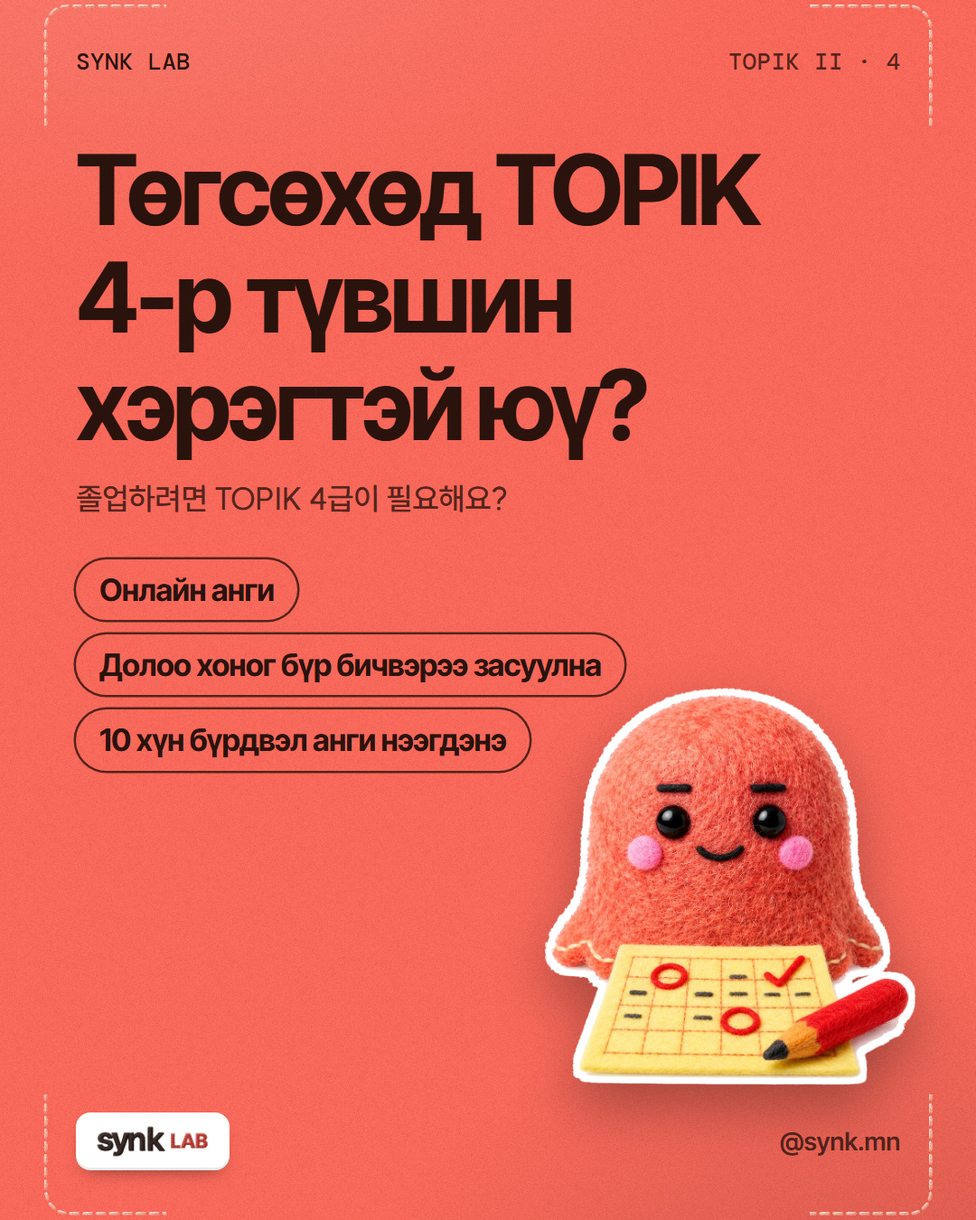
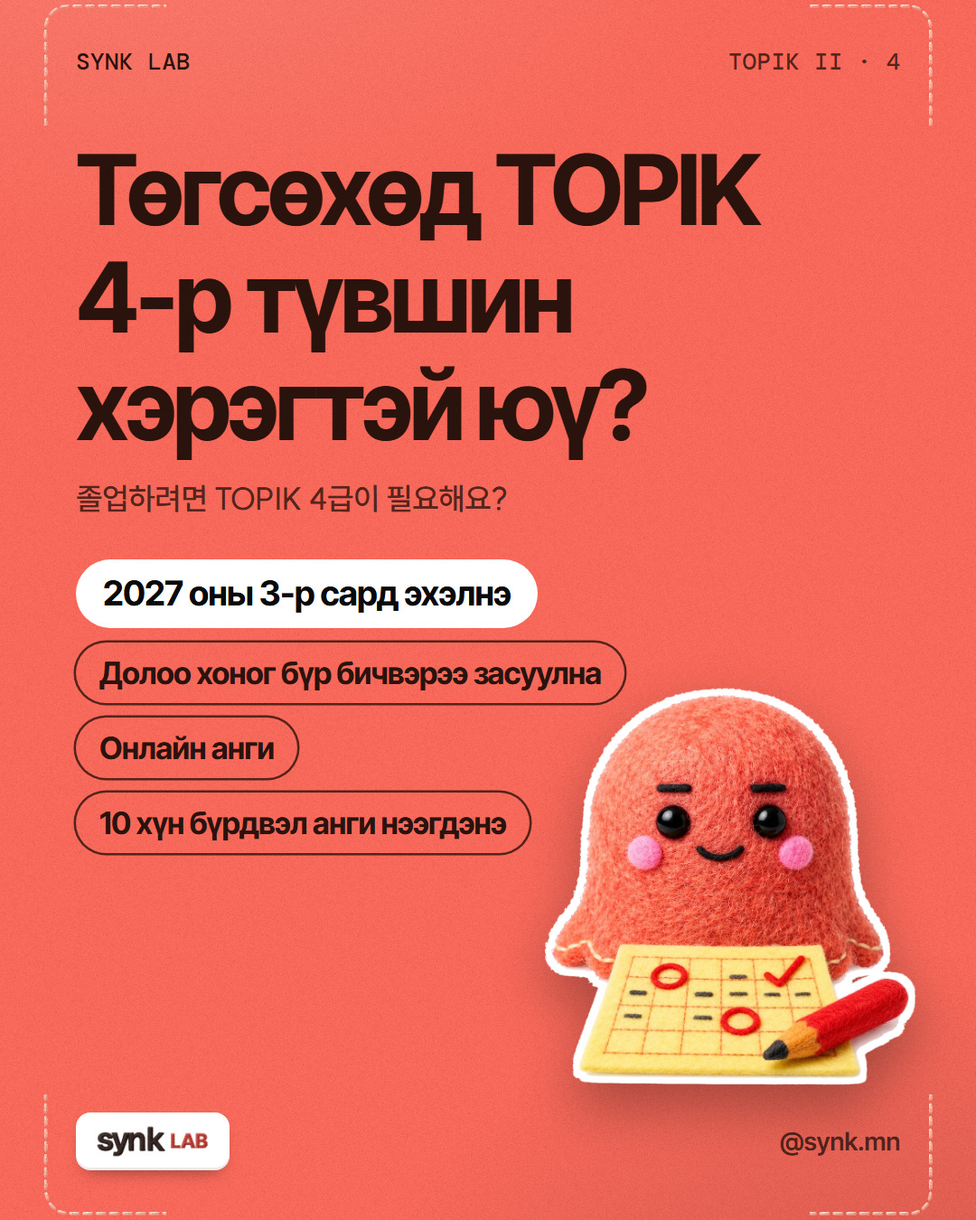
feat(LAB 첫 글 ①): 2027년 3월 시작을 표지·7장·캡션 맨 위에 — 새 판으로 21:00 다시 예약
- 유호님 「27년 3월시작인거 제대로 알려줘」: 표지 첫 칩(흰색) «2027 оны 3-р сард эхэлнэ», 7장 제목 «Эхлэх хугацаа, төлбөр, нөхцөл» · 첫 줄 «Эхний анги 2027 оны 3-р сард эхэлнэ», 캡션·페북 본문 줄표 맨 위
- 11차 몽골어 대조 아르곤 · Vertex 3.1 Pro 정상, 맞춤법 의심 0 — 1 · 7장 JPG 교체
- 「예약된 게시물 수정」은 사진 교체가 저장되지 않아 18:04 새 판을 다시 예약하고 옛 예약 두 줄 삭제(예약 목록 확인)
- 현장 노트: 예약 수정의 사진 함정 · ego 다른 공간이 떠 있을 때 그리기 멈춤

Changed region(s): [[0.0611, 0.4356, 0.6417, 0.7156]]

diff --git a/docs/마케팅/LAB_TOPIK4반소식_mn_20261023/원고.html b/docs/마케팅/LAB_TOPIK4반소식_mn_20261023/원고.html
@@ -16,6 +16,7 @@
   .k-paper .ko-s{color:var(--k-muted)}
   .chips{display:flex;flex-direction:column;align-items:flex-start;gap:16px;margin-top:44px}
   .chips .k-chip{font:700 34px/1.15 var(--k-latin)}
+  .chips .k-chip.date{background:#fff;color:var(--k-ink);box-shadow:none;font-size:38px;padding:16px 30px}
   /* 2 이런 분께 */
   .who{list-style:none;margin:60px 0 0;padding:0;display:grid;gap:72px}
   .who li{display:grid;grid-template-columns:64px 1fr;gap:22px;align-items:start}
@@ -78,8 +79,9 @@
     <p class="k-title l mn" style="max-width:820px">Төгсөхөд TOPIK <span class="nw">4-р түвшин</span> хэрэгтэй юү?</p>
     <p class="ko-s" style="margin-top:22px">졸업하려면 TOPIK 4급이 필요해요?</p>
     <div class="chips">
-      <span class="k-chip">Онлайн анги</span>
+      <span class="k-chip date">2027 оны 3-р сард эхэлнэ</span>
       <span class="k-chip">Долоо хоног бүр бичвэрээ засуулна</span>
+      <span class="k-chip">Онлайн анги</span>
       <span class="k-chip">10 хүн бүрдвэл анги нээгдэнэ</span>
     </div>
   </div>
@@ -182,14 +184,14 @@
 <section class="k-slide k-paper" data-fmt="feed34" data-name="7-값과조건">
   <div class="k-head"><b>SYNK LAB</b><span class="k-count">07 / 08</span></div>
   <div class="k-in">
-    <h2 class="k-title s mn">Төлбөр ба анги нээх нөхцөл</h2>
+    <h2 class="k-title s mn">Эхлэх хугацаа, төлбөр, нөхцөл</h2>
     <ul class="terms">
+      <li><b>Эхний анги 2027 оны 3-р сард эхэлнэ</b><span>10 хүн бүрдвэл анги нээгдэнэ. Эхлэх өдрийг цахим шуудангаар урьдчилан мэдэгдэнэ. Бүртгүүлэхдээ Бямба гарагт хичээллэх боломжтой цагаа сонгоно.</span></li>
       <li><b>8 долоо хоног 300,000 вон</b><span>НӨАТ багтсан үнэ.</span></li>
-      <li><b>10 хүн бүрдвэл анги нээгдэнэ</b><span>Эхний ангийг 2027 оны 3-р сард эхлүүлэхээр бэлдэж байна. Эхлэх өдрийг цахим шуудангаар урьдчилан мэдэгдэнэ. Бүртгүүлэхдээ Бямба гарагт хичээллэх боломжтой цагаа сонгоно.</span></li>
       <li><b>Одоо төлбөр авахгүй</b><span>Төлбөрийн талаар эхлэх өдөр тогтсоны дараа мэдэгдэнэ. Хичээл эхэлснээс хойш эхний 2 долоо хоногт та болихоор шийдвэл төлбөрийг бүтнээр нь буцааж өгнө.</span></li>
       <li><b>Юуг амлах вэ</b><span>Шалгалтад тэнцэх эсвэл тодорхой түвшин авахыг амлахгүй. Харин 8 долоо хоногт юу сурах, бичвэрээ хэрхэн засуулахыг тодорхой хэлж өгнө.</span></li>
     </ul>
-    <p class="ko-s" style="margin-top:26px;font-size:26px">8주 30만 원 · 10명이면 개강(첫 반 2027년 3월 목표) · 토요일 가능한 시간은 등록할 때 골라요 · 결제는 개강일이 정해진 뒤</p>
+    <p class="ko-s" style="margin-top:26px;font-size:26px">첫 반은 2027년 3월 시작 · 10명이면 개강 · 8주 30만 원 · 토요일 가능한 시간은 등록할 때 골라요 · 결제는 개강일이 정해진 뒤</p>
   </div>
   <div class="k-foot"><span class="k-handle" style="font-size:26px">@synk.mn</span><span>SYNK LAB</span></div>
 </section>

diff --git a/docs/_ops/트랙.md b/docs/_ops/트랙.md
@@ -19,7 +19,7 @@
 - **PATH 정착관리 — 정할 것 여덟(10-21, 유호님 차례 · 하나는 기한 11-10):** 외국인 정착·통합 관리 사업 계획과 로드맵을 [계획](../PATH_정착관리/README.md)·[두 쪽 판](../PATH_정착관리/한눈에.md)에 썼다(근거 조사 다섯 `docs/PATH_정착관리/조사/`, Fable 검수 세 번 — 32건 + 재검수 9건 + 10-22 뿌리 프로그램 23건 반영). 공고문 원문은 10-22 확인했고(정착 과제 마련·심사 20점·비예산), 전북도 [제안서 초안](../PATH_정착관리/제안/전북_광역형비자_정착과제_제안_초안.md)을 썼다(Fable 검수 17건 반영). 10-22 보내기 전 정할 것 아홉은 유호님이 추천대로 정했고(결정 표), 받는 곳 외국인국제정책과(참조 교육협력과)를 도청 직원검색으로 확인했다. PDF(`제안/전북_광역형비자_정착과제_협력제안서.pdf` — 원고 HTML을 `node docs/PATH_정착관리/제안/굽기.cjs`로 굽는다)와 Gmail(unmet23) 임시보관함 메일 초안(받는 사람 빈칸, PDF 붙임)까지 만들었다 — **10-22 유호님 「1~2주 준비하고 보내자」: 바로 보내지 않는다.** Claude 몫 준비는 10-22에 끝냈다 — 참고 자료·한 장 요약·협력 의향서(안)·참여 안내·동의서(한국어·몽골어, 몽골어는 원어민 검수 전) PDF, 전북 맞춤 보강(근거 [조사 7](../PATH_정착관리/조사/7_전북기존사업.md)), 묶음 전체 Fable 검수 반영(P1 2 · P2 7 · P3 16), Gmail 초안(본문·붙임 셋) 갱신. 10-22 유호님 「10월 29일까지 최대한 보충해서 보내자」 — 참고 자료에 그림·가상 사례·근거·비용을 보태고 Fable 검수(P1 1·P2 7·P3 12)를 모두 반영했다. 같은 날 「앱 화면 시안 몇 장도 만들어서 참고 자료에 넣자」로 4절에 학생 휴대폰 셋(할 일·상담·모임)과 매니저 화면 하나를 넣었다(참고 자료 6쪽, 아르곤 3건(반영 3) · Fable 7건(반영 7), P0·P1 0) — 유호님 「이대로 좋아」, 디자인은 [플랫폼 시그널](../디자인/플랫폼_시그널/README.md#path-settle-app-mockup-20261022). 10-23 「효과 증명·위기 대응·예상 질문 셋 다 보충해줘」 — 참고 자료 효과 증명(비교군·기준선)·밤·주말 위기 대응 절, 제안서·한 장 요약·동의서(한국어·몽골어)에 위기 대응·예외 줄, 유호님용 [예상 질문과 답](../PATH_정착관리/제안/전북_실무협의_예상질문.md)(유호님이 정해 두실 것 다섯 남음 — 비상 당번·매니저 체류자격·또래 리더 활동비·미선정 때 시범·비용 출처 한 줄). 사업자는 10-23 정함 — 개인사업자 없이 2027년 1월 전주 법인, 제안 문서에 「시범(3월) 전 법인 명의로 협약」(결정 10-23). Fable 검수 P1 3건 고친 뒤 재검수 P0·P1 0. 이름·연락처는 저장소 밖 보내는 판과 Gmail 초안에만 넣었다(초안 갱신, 보내지 않음). 10-23 유호님 「아직 보내지마 1주일동안 컨텐츠 준비 제대로 하고 올리자. 아직 많이 미흡한부분이 많아」 — Fable이 도 담당 주무관·공모 평가위원의 눈으로 모자란 곳 열하나를 찾았고(협력처 이름 없음·제안자 얼굴 없음·몽골어 중심 등), 유호님이 정한 넷(매니저는 쉬운 한국어+다수 국적어 우대 · 앱 알림·AI 1차 응답은 최대 200명 두 층 · 대표 소개는 synk.im 공개분만 · 원광대 국제교류처·진흥원에 보내기 전 면담, 결정 10-23)으로 묶음을 고쳤다 — 새 붙임 [신청서 문안](../PATH_정착관리/제안/전북_정착동행_신청서문안_원고.html)(심사 내용별로 맞닿는 곳·개조식 문안), 일정이 밀리면·비용 내역·2028년·방학, 메일 제목·첫 문단, 전화 대본 셋, 참고 자료 절 순서(6쪽). **남은 것([제안 초안 5절](../PATH_정착관리/제안/전북_광역형비자_정착과제_제안_초안.md)): 유호님 전화 셋(도 — 메일 주소·보낼 날·D-2/E-7·서식 칸·대학 연락 양해 / 원광대 국제교류처 / 진흥원) → 면담 1~2건 → Claude가 결과 반영·Fable 재검수 → 10-29 마지막 판 → 10-30 무렵 「보내」**. synk.im/path 「06 정착 동행」 구역은 10-23 공개했다(synk-policy `16b68ea` · 기준 그림 `bcd4196`, 화면 검수 아르곤 1건 반영 → 0 · Fable P0·P1 0, 원고 SYNK-website `d8bf651`, 바로 거는 주소 synk.im/path/#companion). 같은 날 질문창(ASK SYNK)에도 정착 동행 기록을 공개해 「정착 동행이 뭐예요?」·「첫 30일 할 일을 어떻게 챙기나요?」·「매니저가 같이 가 주나요?」·「정착 동행 시범에 참여할 수 있나요?」가 유학·취업 지원 답 대신 06 구역 단추(「정착 동행 보기」)가 달린 답으로 간다(synk-policy `7f77ec8` · 기준 그림 `a556e4a`, 원고 SYNK-website `b4bde93`, 화면 검수 아르곤 막힘(주간 0%) → Fable 2회 재현 P0·P1·P2 0 · P3 1 후속). 10-24 영어 synk.im/en/path에도 06 「Settle Together」 구역(한국어 06과 같은 사실 · 한국어 앱 시안임을 밝힘)과 영어 질문창 단추(「See Settle Together」)를 공개했다(v11 판 위 — synk-policy `431d46d` · 기준 그림 `c2fc457`, 원고 SYNK-website `81ef9f0`, 화면 검수 아르곤 막힘 → Fable 2회 재현 P0·P1 0). 도 공모 마감 11-10. 같은 날 유호님 요청으로 문제의 근본 원인을 건강하게 푸는 「뿌리 프로그램」을 계획 4-11절에 더했다(근거 [조사 5](../PATH_정착관리/조사/5_근본원인_건강한해결.md) — 마약은 피로·빚·고립·신분 불안을 무리별로 나눠 한 팀 리그·모국어 또래 리더·첫 주 「돈 유혹」 교육·사업장 피로 점검·신분 걱정 없는 첫 상담으로 푼다). 같은 날 유호님이 외국인 일자리 조사를 보고 「PATH의 심장」(2030년 업종별 최소 112.5만 명 부족 → 인력 관리)과 최종 목표(LAB TOPIK 4급 → 모자라는 자리의 조건·인성·적응을 풀어 주는 회사, 자격증은 연결)를 말씀해 계획 0절·[2-5절](../PATH_정착관리/README.md)·4-13절 「일자리 사다리」(다섯 갈래 — 돌봄·지방 제조·유학→지역 정착·조선·농어업, 직접 할 것과 잇는 것)·7-2·8절과 두 쪽 판에 넣었다(근거 [조사 8](../PATH_정착관리/조사/8_부족직종과_자격조건.md) — 법무부 2030 전략 표·체류민원 매뉴얼 2026-10판·요양보호사 양성지침·Q-net 원문, Fable 검수 P0·P1 0 · P2 10 · P3 12 모두 반영, 결정 표 10-22). 남은 확인: 요양보호사 E-7-2 시범(지침상 2026년까지)의 2027년 이후, 몽골 EPS-TOPIK 2026 일정. 계획의 정할 것은 11절 — ① 「통제」 대신 「책임 관리」 ② 이름(가칭 PATH 정착관리) ③ 외국인 핵심 지원 0원·도움과 단속 사이의 벽 ④ 첫 시범 순서·시기(추천: 2027-03 몽골 유학생 무료 시범) ⑤ **전북도 제안 — 공모 마감 2026-11-10**(위 준비 뒤 보내는 날·보내기 승인) ⑥ 공공 위탁은 비영리 파트너와 ⑦ 값 가설 ⑧ 기존 PATH #19 정착 패키지를 A1로 흡수. 연락·계약·구현은 없다.
 - **PULSE 「매진 임박」 공포 코미디 × 홈쇼핑 — 콘티 v4(원본 릴스 그대로) 이미지 콘티 끝 · 옷은 코케트로 확정(10-23 유호님 「옷은 코케트(원본 꼴 리본) 안으로 가자. 보드도 봤어.」) · B안 시험 넷 끝(10-23 밤 유호님 「맘에 들어. b안으로 일단 테스트해보자.」 — 이미지 콘티는 만족 장부 S31) · 나머지 24컷 영상 22컷 받음(10-24 유호님 「칼 컷 일곱만 Omni로 옮기고 칼 없는 #23 · #25는 Veo로 가자. 나머지 23컷 구워 줘.」, Flow 446) · #8 · #20 길 고르기 기다림:** 원본 31컷 첫 프레임과 나란히 놓은 보드 `Documents/synk-vendor/homeshopping-horror-20261021/콘티/매진임박_이미지콘티_v4_1~4.jpg` · `_한눈.jpg`, 옷 두 안 `매진임박_옷비교_v4.jpg`(원본 꼴 리본 · 코케트가 기본 추천 / 지금 옷) — 만든 길 · 닮음 · Fable 검토는 [콘티 v4 10절](../마케팅/PULSE_포트폴리오_제작준비_20261012/video/homeshopping-horror-20261021/04_콘티_v4_원본그대로.md). 강도는 복면(10-23 유호님 「강도는 원본처럼 복면으로 하자.」), 제품 · 강도가 든 물건은 블렌더 렌더 합성. B안 시험 넷 결과(Flow 114 — 6,563 → 6,449): #2 칼 든 강도는 Veo 3.1 Quality가 정책 위반으로 두 번 막음(크레딧 0), #31 도시락 강도는 Veo 통과(도시락이 0.5초 만에 다시 그려져 마감 때 블렌더로 덮음), #7 · #10 피해자 Omni는 두 판 중 한 판씩 통과(다른 판은 정책으로 막혀 환불) — 비교 영상 `synk-vendor/…/영상/v4시험/v4시험_원본과나란히.mp4`. 10-24에 ①(칼 컷 일곱만 Omni)로 나머지 24컷을 구워 22컷을 받았다 — 원본 31컷과 같은 초에 나란히 `synk-vendor/…/영상/v4/v4_원본과나란히_전체.mp4`, 우리 쪽만 이은 무음 가편집 `…/v4_가편집_무음.mp4`(#9는 1.65배, #26은 끝 칸에 통2 얼굴을 걸어 다시). 유호님 「생각보다 괜찮은데 ?!」 뒤 광고 카드 넷도 원본 박대로 움직이게 했다(영상 모델 없이 블렌더 물건 · 손 · 글자 층, 크레딧 0, `…/영상/v4/카드/`). 리4 클로즈업 #8 · #20(어깨에 손)은 Omni가 네 번 다 정책으로 막아(크레딧 0) 유호님 차례: 그 두 컷의 길 고르기 · 가편집을 보고 고칠 곳. 견적 두 안(A안 Omni 27컷 약 408 / B안 약 1,258)은 [04 10절 끝](../마케팅/PULSE_포트폴리오_제작준비_20261012/video/homeshopping-horror-20261021/04_콘티_v4_원본그대로.md). 광고 카드는 블렌더 합성판 위 Remotion(크레딧 0). 그 전: 영상판 v2에 유호님 「개연성이 안보여 … 누가봐도 ai로 대충 만든 광고같아 … 구성을 아예 똑같이 하는게 그나마 나을것같아. 시간초나 장면전환하는타이밍이나 구도나 전부 말이야」 → 원본 72.7초 · 31컷을 프레임으로 재고 그대로 옮긴 콘티 v4(Fable 원본 대조 반영). 아래는 그 전 기록. **10-23 영상판:** 「가편집 v8 좋아. 이대로 Omni 1.1 Flash로 영상 만들자(약 20컷, 약 280 Flow).」(장부 S28)대로 정지컷 자리 21곳을 Omni 클립으로 바꾼 영상판 v2(`synk-vendor/…/영상판/매진임박_영상판_v2_16x9.mp4` · `_9x16.mp4`, Flow 245) — Fable 「보여 드려도 된다」(P2 둘 고침). 유호님 차례: ① 영상판 v2를 보고 고칠 곳 ② 강도 갸웃 클로즈업 C05v3는 얼굴이 덜 닮는 구간을 빼고 시작 그림에 가까운 구간을 썼다 — 곁눈질이 큰 구간이나 다시 생성(14 Flow)을 원하시면 그때 ③ 최종 음악(Suno). 아래는 그 전 기록. v2 가편집(강도 유호님 · 피해자 통2 · 리4 · 지유)에 「매진임박 맘에 드는데 ?」(장부 S27) 뒤 「더 재밌고 사람들 반응이 좋은걸로 하자 … 크롤링해서 데이터를 제대로 파악해서 적용시켜줘 … 앵글이나 이런것도 … 영상 제작은 바로 하지말고 일단 콘티 완벽하게 만들어놓고 진행하자」(10-22)에 반응 조사(한국 YouTube 300편 · 해외 251편 · 상위 16편 컷 실측 — [조사](../마케팅/PULSE_포트폴리오_제작준비_20261012/video/homeshopping-horror-20261021/02_반응조사_20261022.md))를 넣은 콘티 v3.1(39.2초 · 30컷, [콘티](../마케팅/PULSE_포트폴리오_제작준비_20261012/video/homeshopping-horror-20261021/03_콘티_v3.md))과 이미지 콘티 · 가편집 v8을 만들었다([브리프](../마케팅/PULSE_포트폴리오_제작준비_20261012/video/homeshopping-horror-20261021/00_브리프.md) 「지금 판」, 미디어 `Documents/synk-vendor/homeshopping-horror-20261021/` — `콘티/매진임박_이미지콘티_v3.jpg` · `가편집/매진임박_가편집_v8_*`). 쇼호스트 하린을 새로 세웠고 제품은 2안 꽉 밀폐용기 — **10-23 유호님 확정 「제품은 2안 꽉 밀폐용기로 가자.」** 영상 생성은 하지 않았다. 유호님 차례: ① 가편집 v8 · 이미지 콘티를 보고 고칠 곳 ② 영상 모델(약 20컷 — Omni 1.1 Flash 약 280 Flow, 입모양 맞출 컷 넷). 끝 판 셋(기본 · 「주문 완료」에서 끊는 짧은 판 · 「너네도 필요해?」)과 9:16 머리글 넷은 올릴 때 견준다. **10-22 유호님:** 이 작품은 모델별 참고 영상 기각에 들지 않는다(「그건 빼고 완성되면 올리자」) — 완성되면 PULSE 고객 앱 「완성 광고」 공간에 올린다(§8 「PULSE 모델은 사진만 · 완성 광고」 줄).
 - **1일 1편 작업실 예약 — 연결 완료, 편마다 검토 승인(10-23):** 비밀번호 9자 이상을 받는 판은 19:02 운영에 올랐고 회사 HA 사슬 26 합본은 19:45 재무장됐다. 그 화면에서 유호님이 직접 저장한 뒤 자동화 보관소 이메일을 같은 작업실 계정에 맞췄다(비밀번호는 그대로). 19:49 KST 실제 `/api/login`·`/api/me`·`/api/social/workspace`가 모두 200이며 본인 계정 일치·기존 작업 7건 전부 게시 완료·예약 대기 0건을 확인했다. 19:51 정기 작업도 등록·서버 대조 모두 종료 0으로 끝나 401 연결 문제는 해소됐다. 실제 새 편의 등록·발행은 그 편의 승인 뒤 확인한다. 정기 작업 「SYNK 예약큐」는 기존 30분 주기를 유지한다. 편마다 텔레그램 검토 링크에서 유호님이 승인해야 나가는 조건도 그대로다([작업실 예약 등록](../마케팅/온라인마케팅지도/engagement/company/WORKSPACE.md#daily-content-workspace-booking-20261021)). 게시 연결 넷은 같은 날 @synkkorean·@synkbrief(유튜브)·@synkbrief·@synk.mn(인스타)에 연결 확인을 마쳤다. 서버의 언어·AI 표시 등 판별 지원 범위는 §6 같은 이름 줄과 실제 게시 전 검사를 따른다. 비식별 읽기·예약 실행 검증 근거는 `output/business-workflow-pilot-review/`의 `auth-verification-2026-10-23T10-49-43-159Z.json`·`scheduled-run-proof.json`이다.
-- **TOPIK 4급 관심 등록 — 정할 것(10-21):** 공개한 synk.im/lab/topik4/에서 ① 시험 등록 종단 확인은 10-21 끝(회사 서버 수집·시험 분류까지) ② 모집 글(`experiences/lab-topik4/모집글.md`) 게시와 @synk.mn 프로필 링크 바꾸기 ③ 영업 명단 30곳 첫 메일·DM — 첫 연락일은 「보내기 전 확인 셋」(실제 계정 쓰기 피드백 · 휴대폰 실기기 · 회신 주소)이 끝나는 날(10-21 밤 유호님, [결정](결정.md)). ①② 10-21 유호님 휴대폰 확인 끝(막힌 곳 없음), ③ 회신 주소 hello@synk.im으로 채움(10-21 밤) → **1차 묶음은 10-30 무렵, 준비가 충분해진 뒤 보냄 — 10-22 낮 유호님 「1주일동안 우리 사업 전체를 강화하고 보내자」, 10-23 「충분히 준비되고나서 … 준비해놓은 컨텐츠가 많이 부족」 → 그 전에 맛보기 수업 영상과 @synk.mn 첫 글들을 채운다** — 그 1주 할 일은 [준비 목록 6절](../../experiences/lab-topik4/첫연락_준비목록.md#week-before)([결정](결정.md) 10-22·10-23). 예약 걸어 둔 것 없음(초안·붙일 것은 저장소 밖 `Documents/메일정리/2026-10-21/영업_첫30곳/`, 묶음 목록은 그 폴더 `1차_보낼묶음.md`). 검수용 Gmail 초안 7통(unmet23 「Drafts」, 보내지 않음·예약 없음)은 사실 확인·메일 다듬기 뒤 새 판으로 바꾼다 — 보내기는 유호님 검수 뒤 Gmail에서 직접. 그 밖의 [첫 연락 준비 목록](../../experiences/lab-topik4/첫연락_준비목록.md)은 문턱이 아니라 그날까지 되는 만큼 — 10-21 밤 Claude가 넷(TOPIK II 입구 확인 · 몽골어 안내문 · 통화용 소개 · 신청 운영 절차)을 갖췄고, 10-22에 WORLD TOPIK II 바로가기 주소를 더했다(메일 초안의 WORLD 링크 46곳도 새 주소로 바꿈 — 검수하실 때 `https://synk.im/world/?exam=topik2…`로 보입니다). @synk.mn 반 소식이 남았다(환불 기준점은 10-22 확정). 신청 수는 매주 월요일 회사 Workspace 「문의 접수」에서 세어 주세요([README 신청 운영](../../experiences/lab-topik4/README.md#신청-운영주-1회)). **@synk.mn 첫 글 두 편 v2(10-23 저녁, ab09e540c)** — 유호님 「오케이 이건 그럼 내일 제미나이 초기화되면 올리자」: 대조기는 10-23 21시 Vertex Gemini 3.1 Pro로 끝(전부 「정상」) — ① 반 소식 10-24 21:00 · ② 51·52번 빈칸 10-27 21:00, 14시 「오늘 편 게시」 작업이 건다([① 게시 묶음](../마케팅/LAB_TOPIK4반소식_mn_20261023/게시/README.md)). 그 전에 유호님 휴대폰 앱: 인스타 프로필 링크 둘(웹 · Business Suite로는 안 됨). 페북 SYNK 페이지 소개 링크는 10-23 Claude가 더함. **10-24 아르곤 대조: ① 다섯 묶음 중 하나 「어색」(14시 보류) → 두 곳을 고쳐 10차 아르곤 · Vertex 「정상」, 2 · 3장 다시 구워 16:02에 21:00 예약됨(인스타 · 페북) · ② 세 묶음 「정상」(10-27 21:00 슬롯). 남은 것: 21:00 뒤 ① 인스타 고정 · 게시 주소 기록**([① 검사.아르곤](../마케팅/LAB_TOPIK4반소식_mn_20261023/게시/준비.json)). **맛보기 수업 영상 10-24 신청 페이지 공개** — 03 칸 https://synk.im/lab/topik4/#class-video(synk-policy `380d612`, 화면 검수 아르곤 0 · Fable P0·P1 0), 메일 칸 주소는 첫 연락 세션에 넘김([준비 목록 ⑤](../../experiences/lab-topik4/첫연락_준비목록.md#week-before) · [콘티 14절](../마케팅/LAB_TOPIK4맛보기수업_20261023/콘티.md)).
+- **TOPIK 4급 관심 등록 — 정할 것(10-21):** 공개한 synk.im/lab/topik4/에서 ① 시험 등록 종단 확인은 10-21 끝(회사 서버 수집·시험 분류까지) ② 모집 글(`experiences/lab-topik4/모집글.md`) 게시와 @synk.mn 프로필 링크 바꾸기 ③ 영업 명단 30곳 첫 메일·DM — 첫 연락일은 「보내기 전 확인 셋」(실제 계정 쓰기 피드백 · 휴대폰 실기기 · 회신 주소)이 끝나는 날(10-21 밤 유호님, [결정](결정.md)). ①② 10-21 유호님 휴대폰 확인 끝(막힌 곳 없음), ③ 회신 주소 hello@synk.im으로 채움(10-21 밤) → **1차 묶음은 10-30 무렵, 준비가 충분해진 뒤 보냄 — 10-22 낮 유호님 「1주일동안 우리 사업 전체를 강화하고 보내자」, 10-23 「충분히 준비되고나서 … 준비해놓은 컨텐츠가 많이 부족」 → 그 전에 맛보기 수업 영상과 @synk.mn 첫 글들을 채운다** — 그 1주 할 일은 [준비 목록 6절](../../experiences/lab-topik4/첫연락_준비목록.md#week-before)([결정](결정.md) 10-22·10-23). 예약 걸어 둔 것 없음(초안·붙일 것은 저장소 밖 `Documents/메일정리/2026-10-21/영업_첫30곳/`, 묶음 목록은 그 폴더 `1차_보낼묶음.md`). 검수용 Gmail 초안 7통(unmet23 「Drafts」, 보내지 않음·예약 없음)은 사실 확인·메일 다듬기 뒤 새 판으로 바꾼다 — 보내기는 유호님 검수 뒤 Gmail에서 직접. 그 밖의 [첫 연락 준비 목록](../../experiences/lab-topik4/첫연락_준비목록.md)은 문턱이 아니라 그날까지 되는 만큼 — 10-21 밤 Claude가 넷(TOPIK II 입구 확인 · 몽골어 안내문 · 통화용 소개 · 신청 운영 절차)을 갖췄고, 10-22에 WORLD TOPIK II 바로가기 주소를 더했다(메일 초안의 WORLD 링크 46곳도 새 주소로 바꿈 — 검수하실 때 `https://synk.im/world/?exam=topik2…`로 보입니다). @synk.mn 반 소식이 남았다(환불 기준점은 10-22 확정). 신청 수는 매주 월요일 회사 Workspace 「문의 접수」에서 세어 주세요([README 신청 운영](../../experiences/lab-topik4/README.md#신청-운영주-1회)). **@synk.mn 첫 글 두 편 v2(10-23 저녁, ab09e540c)** — 유호님 「오케이 이건 그럼 내일 제미나이 초기화되면 올리자」: 대조기는 10-23 21시 Vertex Gemini 3.1 Pro로 끝(전부 「정상」) — ① 반 소식 10-24 21:00 · ② 51·52번 빈칸 10-27 21:00, 14시 「오늘 편 게시」 작업이 건다([① 게시 묶음](../마케팅/LAB_TOPIK4반소식_mn_20261023/게시/README.md)). 그 전에 유호님 휴대폰 앱: 인스타 프로필 링크 둘(웹 · Business Suite로는 안 됨). 페북 SYNK 페이지 소개 링크는 10-23 Claude가 더함. **10-24 아르곤 대조: ① 다섯 묶음 중 하나 「어색」(14시 보류) → 두 곳을 고쳐 10차 아르곤 · Vertex 「정상」 · ② 세 묶음 「정상」(10-27 21:00 슬롯). ①은 유호님 「27년 3월시작인거 제대로 알려줘」로 2027년 3월 시작을 표지 · 7장 · 캡션 맨 위에 넣은 새 판(11차 「정상」)을 18:04에 21:00로 다시 예약(인스타 · 페북, 옛 예약은 삭제). 남은 것: 21:00 뒤 ① 인스타 고정 · 게시 주소 기록**([① 검사.아르곤](../마케팅/LAB_TOPIK4반소식_mn_20261023/게시/준비.json)). **맛보기 수업 영상 10-24 신청 페이지 공개** — 03 칸 https://synk.im/lab/topik4/#class-video(synk-policy `380d612`, 화면 검수 아르곤 0 · Fable P0·P1 0), 메일 칸 주소는 첫 연락 세션에 넘김([준비 목록 ⑤](../../experiences/lab-topik4/첫연락_준비목록.md#week-before) · [콘티 14절](../마케팅/LAB_TOPIK4맛보기수업_20261023/콘티.md)).
 
 - **WORLD TOPIK 맞춤 검수 — 최종안 고르기(10-20, 유호님 차례):** 1차 Claude·2차 페이블·3차 아스트라를 합친 [최종 제안](../../experiences/synk-world-app/qa/topik-personalization-review-20261020/최종_제안.md)과 [보고 페이지](https://claude.ai/artifact/L8riXRNw7PmcLxGkPrtPL8). 결론: 엔진의 측정은 믿을 만하지만 읽기 처방 고리가 없고(학습 항목이 이어진 활동은 듣기 게임 둘뿐), 화면이 진단 결과를 접어 보이며, 공개판 쓰기·TOPIK II·모의시험·대화 음성이 0이다. 정할 것: 지금 묶음(읽기 처방·예상 급수 칸 정직하게·진단 결과 구별·위치판 이력·홈 이유 한 줄·목표 이름) 진행 여부, 「TOPIK 기초」의 새 이름, 시험 종류·목표 급·시험일을 물을지, 문항·대화 음성 제작과 교원 검수, TOPIK II 범위, 제품 AI 호출 비용, 손님 기록 옮기기.
 

diff --git a/experiences/lab-topik4/첫연락_준비목록.md b/experiences/lab-topik4/첫연락_준비목록.md
@@ -134,6 +134,6 @@
 | 할 일 | 상태 |
 |---|---|
 | ⑤ 맛보기 수업 영상 — TOPIK II 쓰기 51~54번 한 문항을 실제 수업처럼 푸는 3~5분 영상(몽골어 자막). 학교가 「어떻게 가르치나」를 바로 보게 신청 페이지·메일·@synk.mn에 쓴다 | 최종본(10-23) — 유호님 「이미지 콘티 좋아. 배경음 깐 판으로 목소리 다 굽고 영상 만들어줘」로 만들었다. 4분 6초 · 범수 0.85배 35줄 · 몽골어 자막 · 배경음 약 20dB 아래 · −14.6 LUFS. 낯선 사람 이해 시험 두 판(몽골 유학생 · 국제처 직원) 통과, Fable 최종 검수 지적 모두 반영(P0·P1 0). **10-24 신청 페이지에 공개** — 유호님 10-23 「최종본을 신청 페이지 영상 칸에 넣고 공개까지 해줘」. 03 칸 https://synk.im/lab/topik4/#class-video(몽골어 `?lang=mn#class-video`), synk-policy `380d612` · 배포 점검 통과 · 화면 검수 아르곤 0 · Fable P0·P1 0. 휴대폰에서는 영상 아래에 가로 전체 화면 안내 한 줄이 있다. 메일 칸 주소는 첫 연락 세션에 넘겼다. 짧은 판(@synk.mn)은 그 세션 순위 관문에서 「예비」. [콘티](../../docs/마케팅/LAB_TOPIK4맛보기수업_20261023/콘티.md) |
-| ⑥ @synk.mn 첫 글들 — 전단 QR·메일을 보고 들어온 학생이 볼 반 소식·쓰기 팁 몇 편. 만들어 두고 게시는 유호님 「올려」 뒤 | 두 편 완성 — **① 10-24 21:00 예약됨(인스타 · 페북, 아르곤 · Vertex 대조 「정상」 뒤 10-24 16:02) · ② 10-27 21:00 슬롯(같은 승인, 14시 「오늘 편 게시」 작업이 건다)**. 유호님이 ①·②를 고르고 「③ 무료 쓰기 연습은 ②의 끝 장에 합쳐 줘」 → [① 반 소식](../../docs/마케팅/LAB_TOPIK4반소식_mn_20261023/기획.md)(여러 장 8, 슬롯 10-24 21:00) · [② 51·52번 빈칸 「이 답, 맞을까요?」 + 무료 쓰기 20문항](../../docs/마케팅/LAB_TOPIK4빈칸규칙_mn_20261023/기획.md)(여러 장 6, 슬롯 10-27 21:00). 실제 화면은 반 리허설 3배율 재촬영(시험 반)과 WORLD 몽골어 화면. 몽골어 세 겹(대조기 · 원문 안 본 역번역 · Fable) · 낯선 사람 이해 시험 최종본 두 편 4점 통과 · Fable 완성본 P0 없음. 여러 장 글이라 「올려」 뒤 Business Suite로 인스타 · 페북을 함께 올리고 두 글을 고정한다. **v2(10-23 저녁, 유호님 「최선의 준비가 맞아? … 마감이나 디자인까지」)**: Fable 독립 검수 · SNS 키트 규칙대로 다시 — 표지 · 끝에 이 편용 몽글 펠트 장면, ①은 첨삭 증거(신청 페이지 맛보기 W3 다섯 곳 + 세 줄)와 8주 차시표를 더해 8장, ②는 판정을 앱과 같은 세 점으로 · 틀리지 않은 문장의 ✗를 「Хагас зөв」로 · 반복 예를 새 예로. 유호님 휴대폰(**① 올리기 전에**, 장 · 캡션이 「링크는 프로필에」라고 말하므로): 인스타 프로필 링크 «Урьдчилан бүртгүүлэх»(신청 `from=ig-bio-mn`) · «Бичгийн дасгал»(WORLD 쓰기 연습), 페북 페이지 소개에도 신청 링크. 근거 · 순위 관문은 [기획 후보](../../docs/마케팅/LAB_TOPIK4첫글_20261023/기획후보.md) |
+| ⑥ @synk.mn 첫 글들 — 전단 QR·메일을 보고 들어온 학생이 볼 반 소식·쓰기 팁 몇 편. 만들어 두고 게시는 유호님 「올려」 뒤 | 두 편 완성 — **① 10-24 21:00 예약됨(인스타 · 페북 — 유호님 「27년 3월시작인거 제대로 알려줘」로 2027년 3월 시작을 표지 · 7장 · 캡션 맨 위에 넣은 새 판, 10-24 18:04 다시 예약) · ② 10-27 21:00 슬롯(같은 승인, 14시 「오늘 편 게시」 작업이 건다)**. 유호님이 ①·②를 고르고 「③ 무료 쓰기 연습은 ②의 끝 장에 합쳐 줘」 → [① 반 소식](../../docs/마케팅/LAB_TOPIK4반소식_mn_20261023/기획.md)(여러 장 8, 슬롯 10-24 21:00) · [② 51·52번 빈칸 「이 답, 맞을까요?」 + 무료 쓰기 20문항](../../docs/마케팅/LAB_TOPIK4빈칸규칙_mn_20261023/기획.md)(여러 장 6, 슬롯 10-27 21:00). 실제 화면은 반 리허설 3배율 재촬영(시험 반)과 WORLD 몽골어 화면. 몽골어 세 겹(대조기 · 원문 안 본 역번역 · Fable) · 낯선 사람 이해 시험 최종본 두 편 4점 통과 · Fable 완성본 P0 없음. 여러 장 글이라 「올려」 뒤 Business Suite로 인스타 · 페북을 함께 올리고 두 글을 고정한다. **v2(10-23 저녁, 유호님 「최선의 준비가 맞아? … 마감이나 디자인까지」)**: Fable 독립 검수 · SNS 키트 규칙대로 다시 — 표지 · 끝에 이 편용 몽글 펠트 장면, ①은 첨삭 증거(신청 페이지 맛보기 W3 다섯 곳 + 세 줄)와 8주 차시표를 더해 8장, ②는 판정을 앱과 같은 세 점으로 · 틀리지 않은 문장의 ✗를 「Хагас зөв」로 · 반복 예를 새 예로. 유호님 휴대폰(**① 올리기 전에**, 장 · 캡션이 「링크는 프로필에」라고 말하므로): 인스타 프로필 링크 «Урьдчилан бүртгүүлэх»(신청 `from=ig-bio-mn`) · «Бичгийн дасгал»(WORLD 쓰기 연습), 페북 페이지 소개에도 신청 링크. 근거 · 순위 관문은 [기획 후보](../../docs/마케팅/LAB_TOPIK4첫글_20261023/기획후보.md) |
 
 **보내기 전에 유호님이 정할 것:** 교사 소개 한 줄, 수업 언어, 통화 도구와 가능한 시간, 후속 메일을 보낼지(`답장_통화_준비.md` 6절), @synk.mn 모집 글 게시. 사업자·법인을 물으면 할 답은 [결정 표](../../docs/_ops/결정.md) 10-23(개인사업자 없이 2027년 1월 전주 주식회사)대로 답장 준비 Q2를 한국어·몽골어로 고쳤다(10-23, 몽골어 대조 문법 정상).

diff --git a/docs/마케팅/LAB_TOPIK4반소식_mn_20261023/기획.md b/docs/마케팅/LAB_TOPIK4반소식_mn_20261023/기획.md
@@ -48,3 +48,4 @@
 - **Fable 최종(v2)** — P0 없음. P1 둘 고침: 2장 「51–54-р」가 줄 끝에서 「51–54- / р」로 끊김 → 한 덩이로, 1장 몽글이 V자 눈썹이라 화나 보임 → 표정만 다시 구움(판A2). P2 반영: 4 · 5장 몽골어 풀이를 한국어보다 크게 · 잉크색, 끝 장 행동을 하나로(친구에게 보내기는 캡션에만), 차시표 ①②를 한글 서체로. 남긴 것: 7장 «цахим шуудангаар»(1차 맞춤법 층이 «имэйл»을 짚어 바꾼 말), 3장 앱 화면이 한국어 UI라는 점(과제 칸 몽골어 표시를 확인하기 전이라 캡션에 안 붙임).
 - **몽골어 1층 — Vertex 7차(10-23 21시)** — 10-23 21시 Vertex Gemini 3.1 Pro 대조기 7차 끝(유호님 「Vertex(Gemini 3.1 Pro)로 자막·화면 글 전부 역번역 검수 받아줘. 크레딧 쓰는 거 괜찮아」) — 화면 글 · 캡션 · 페북 본문 · 댓글 답 몽골어 전부를 8묶음(①5 · ②3)으로, 문법 8묶음 모두 「정상」 · 맞춤법(spellcheck.mn) 의심 0 · 직역 역번역 뜻이 한국어와 같음. 고친 줄 없음. 6차(구독 문)는 돌릴 필요가 없어졌다.
 - **아르곤 대조(10-24)** — 14시 세션 8차(문법 gemini-4-argon)에서 1~3장 묶음만 「어색」(2장 셋째 줄 1인칭 «миний» · 3장 «Ихэвчлэн Баасан гараг хүртэл»). 9차에서 «бичсэнээ шалгуулах» · «Баасан гараг гэхэд · багш ихэвчлэн засаад …»로 고치자 아르곤이 «ихэвчлэн»(「대개만 고쳐 준다」로 읽힘)과 1번 줄 «төгсөхийн тулд … хэрэгтэй»(동사 없음)을 짚었고, 10차 «төгсөхөд … хэрэгтэй» · «Баасан гараг гэхэд · багш засаад буцааж өгнө»가 아르곤 · Vertex 3.1 Pro 모두 「정상」. 「보통」을 빼면서 7주(모의) 54번은 다음 주 화요일에 돌려준다는 예외(첨삭기준)가 글에서 빠졌다 — 준비.json 남은위험에 적고, 묻는 사람에게 그대로 답한다. 2 · 3장을 다시 구워 10-24 16:02에 21:00로 예약했다.
+- **2027년 3월 시작 강조(10-24 17시)** — 유호님 「27년 3월시작인거 제대로 알려줘 그쯤되야 준비가 잘 될것같네」. 3월이 캡션 중간 · 7장 작은 글에만 있어 넘겨 보는 사람은 곧 여는 반으로 읽을 수 있었다 → 표지 첫 칩(흰색) «2027 оны 3-р сард эхэлнэ», 7장 제목 «Эхлэх хугацаа, төлбөр, нөхцөл»과 첫 줄 «Эхний анги 2027 оны 3-р сард эхэлнэ»(10명 조건은 그 아래 풀이로), 캡션 · 페북 본문 줄표 맨 위. 11차 대조 아르곤 · Vertex 「정상」. 날짜를 앞으로 옮긴 고침이라 낯선 사람 이해 시험은 다시 돌리지 않았다. 18:04 새 판으로 다시 예약하고 옛 예약은 지웠다.

diff --git a/docs/마케팅/LAB_TOPIK4반소식_mn_20261023/게시/README.md b/docs/마케팅/LAB_TOPIK4반소식_mn_20261023/게시/README.md
@@ -4,7 +4,7 @@
 
 > **승인(10-23 저녁, 유호님 「오케이 이건 그럼 내일 제미나이 초기화되면 올리자」):** 대조기는 10-23 21시 Vertex로 끝났다(「정상」) — 슬롯대로 건다 — 14시 「오늘 편 게시」 작업이 이 승인으로 다시 묻지 않고 건다(`준비.json` 「승인」). 「어색」이면 걸지 않는다.
 
-> **예약됨(10-24 16:02, Claude · Business Suite):** 인스타 @synk.mn · 페북 SYNK 10-24 21:00. 남은 것 — 인스타 프로필 링크 둘(유호님 앱, 21:00 전) · 21:00 뒤 인스타 고정 · 게시 주소를 `게시결과.json`에.
+> **예약됨(10-24 18:04 다시, Claude · Business Suite):** 인스타 @synk.mn · 페북 SYNK 10-24 21:00. 유호님 「27년 3월시작인거 제대로 알려줘」로 2027년 3월 시작을 표지 첫 칩 · 7장 맨 위 줄 · 캡션 줄표 맨 위에 넣은 새 판이다(11차 대조 「정상」). 16:02에 건 옛 판은 「예약된 게시물 수정」으로 사진이 안 바뀌어 지웠다. 남은 것 — 인스타 프로필 링크 둘(유호님 앱, 21:00 전) · 21:00 뒤 인스타 고정 · 게시 주소를 `게시결과.json`에.
 
 | 칸 | 값 |
 |---|---|
